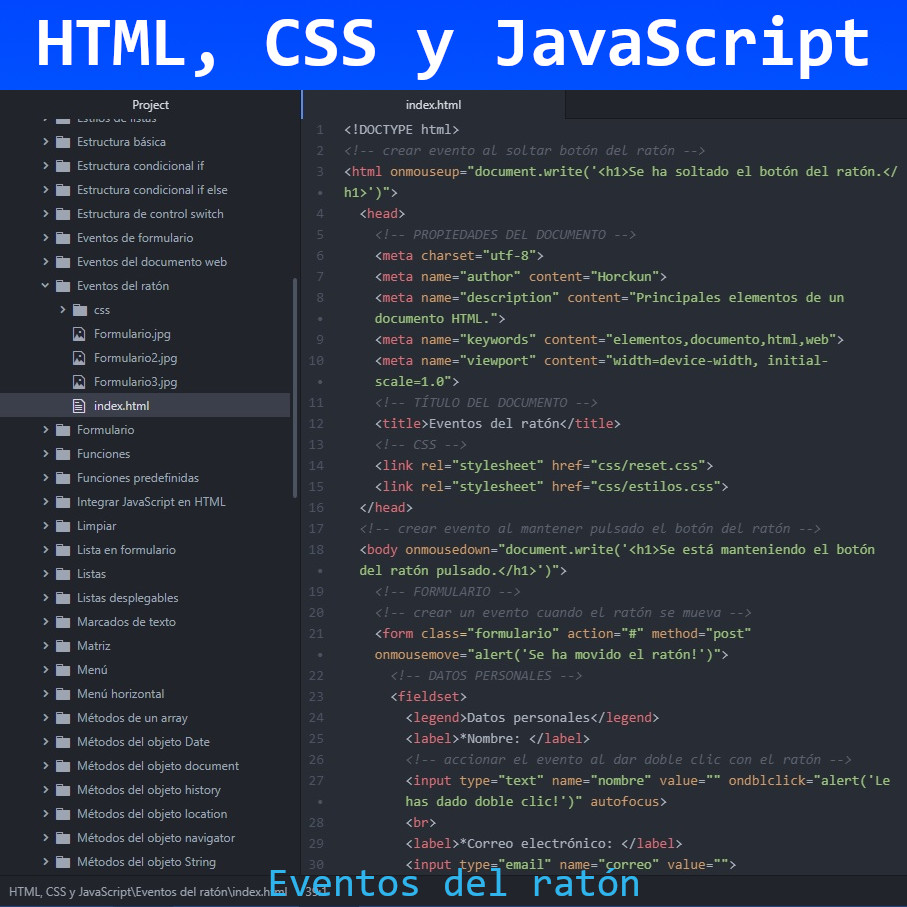
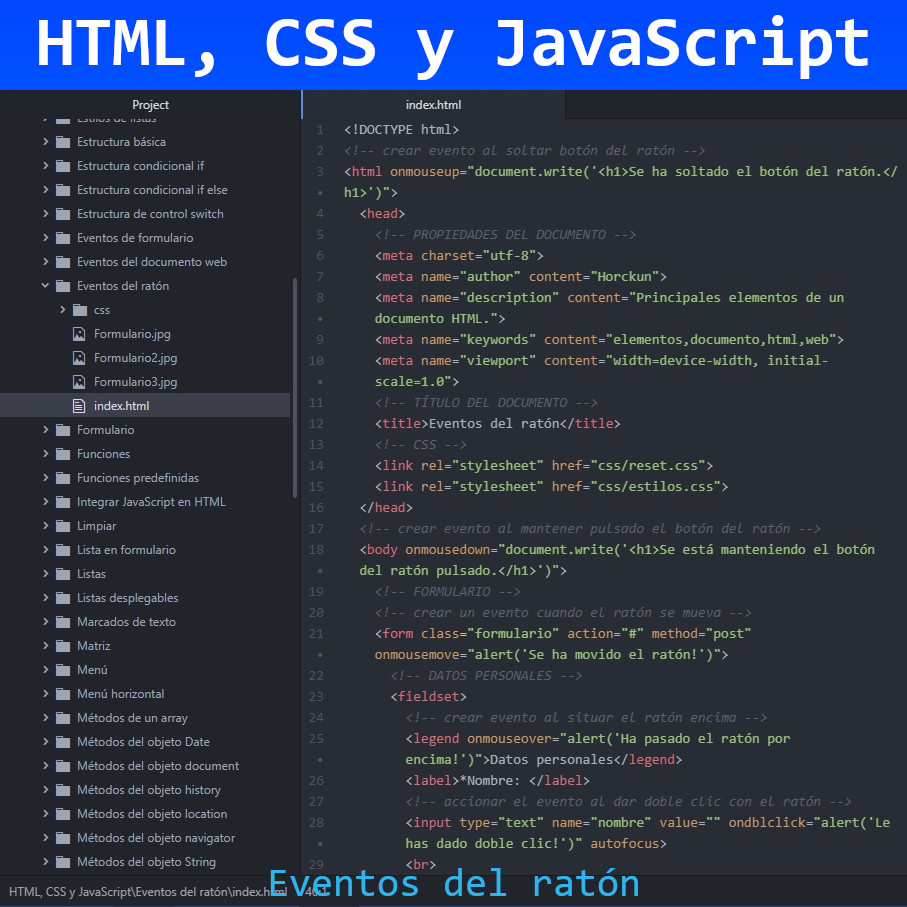
Eventos del ratón
Eventos del ratón en JavaScript

Changed region(s): [[0.4322, 0.7718, 0.957, 0.957]]

diff --git a/HTML, CSS y JavaScript/Eventos del ratón/index.html b/HTML, CSS y JavaScript/Eventos del ratón/index.html
@@ -21,7 +21,8 @@
     <form class="formulario" action="#" method="post" onmousemove="alert('Se ha movido el ratón!')">
       <!-- DATOS PERSONALES -->
       <fieldset>
-        <legend>Datos personales</legend>
+        <!-- crear evento al situar el ratón encima -->
+        <legend onmouseover="alert('Ha pasado el ratón por encima!')">Datos personales</legend>
         <label>*Nombre: </label>
         <!-- accionar el evento al dar doble clic con el ratón -->
         <input type="text" name="nombre" value="" ondblclick="alert('Le has dado doble clic!')" autofocus>
